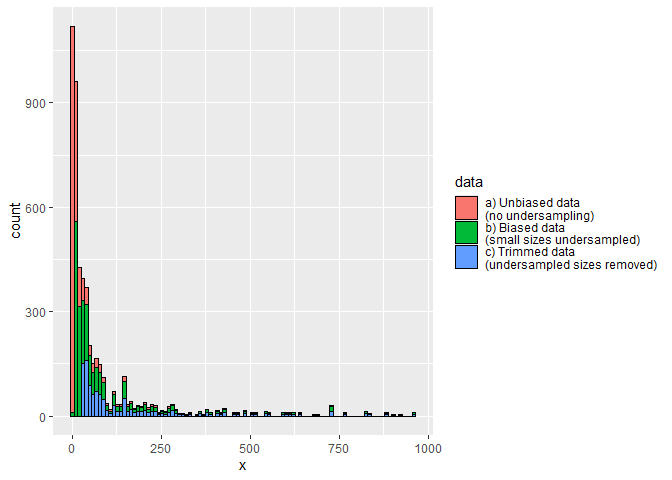
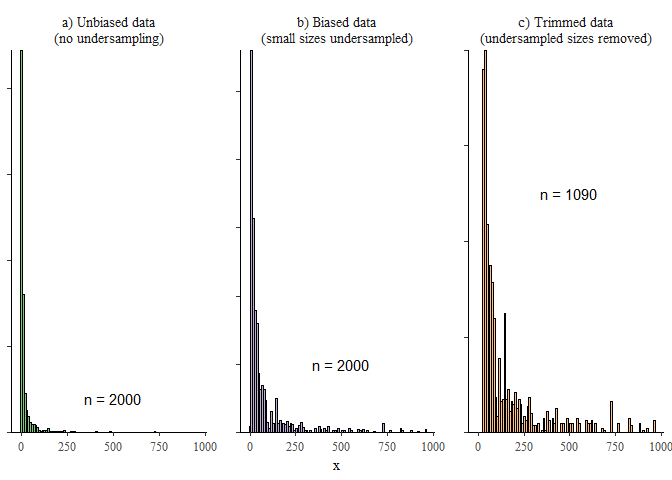
update panel for histogram

diff --git a/README.md b/README.md
@@ -328,14 +328,14 @@ sample_sizes = data_to_plot |>
 
 ggplot(data_to_plot, aes(x = x, fill = data)) + 
   geom_histogram(bins = 100, color = 'black') +
-  # facet_wrap(~data, scales = "free_y") +
-  # brms::theme_default() +
-  # theme(axis.text.y = element_blank(),
-  #       axis.title.y = element_blank()) +
-  # guides(fill = "none") +
-  # scale_fill_brewer(type = "qual") +
-  # scale_y_continuous(expand = c(0, NA)) +
-  # geom_text(data = sample_sizes, aes(x = 500, y = 100, label = n)) +
+  facet_wrap(~data, scales = "free_y") +
+  brms::theme_default() +
+  theme(axis.text.y = element_blank(),
+        axis.title.y = element_blank()) +
+  guides(fill = "none") +
+  scale_fill_brewer(type = "qual") +
+  scale_y_continuous(expand = c(0, NA)) +
+  geom_text(data = sample_sizes, aes(x = 500, y = 100, label = n)) +
   NULL
 ```
 
@@ -351,8 +351,8 @@ fit_unbiased = update(fit1, newdata = unbiased_data)
 #> 
 #> SAMPLING FOR MODEL 'anon_model' NOW (CHAIN 1).
 #> Chain 1: 
-#> Chain 1: Gradient evaluation took 0.001361 seconds
-#> Chain 1: 1000 transitions using 10 leapfrog steps per transition would take 13.61 seconds.
+#> Chain 1: Gradient evaluation took 0.001457 seconds
+#> Chain 1: 1000 transitions using 10 leapfrog steps per transition would take 14.57 seconds.
 #> Chain 1: Adjust your expectations accordingly!
 #> Chain 1: 
 #> Chain 1: 
@@ -369,16 +369,16 @@ fit_unbiased = update(fit1, newdata = unbiased_data)
 #> Chain 1: Iteration: 900 / 1000 [ 90%]  (Sampling)
 #> Chain 1: Iteration: 1000 / 1000 [100%]  (Sampling)
 #> Chain 1: 
-#> Chain 1:  Elapsed Time: 2.238 seconds (Warm-up)
-#> Chain 1:                1.852 seconds (Sampling)
-#> Chain 1:                4.09 seconds (Total)
+#> Chain 1:  Elapsed Time: 2.398 seconds (Warm-up)
+#> Chain 1:                1.871 seconds (Sampling)
+#> Chain 1:                4.269 seconds (Total)
 #> Chain 1:
 fit_biased = update(fit1, newdata = biased_data)
 #> 
 #> SAMPLING FOR MODEL 'anon_model' NOW (CHAIN 1).
 #> Chain 1: 
-#> Chain 1: Gradient evaluation took 0.001471 seconds
-#> Chain 1: 1000 transitions using 10 leapfrog steps per transition would take 14.71 seconds.
+#> Chain 1: Gradient evaluation took 0.000992 seconds
+#> Chain 1: 1000 transitions using 10 leapfrog steps per transition would take 9.92 seconds.
 #> Chain 1: Adjust your expectations accordingly!
 #> Chain 1: 
 #> Chain 1: 
@@ -395,16 +395,16 @@ fit_biased = update(fit1, newdata = biased_data)
 #> Chain 1: Iteration: 900 / 1000 [ 90%]  (Sampling)
 #> Chain 1: Iteration: 1000 / 1000 [100%]  (Sampling)
 #> Chain 1: 
-#> Chain 1:  Elapsed Time: 2.118 seconds (Warm-up)
-#> Chain 1:                1.814 seconds (Sampling)
-#> Chain 1:                3.932 seconds (Total)
+#> Chain 1:  Elapsed Time: 2.081 seconds (Warm-up)
+#> Chain 1:                1.668 seconds (Sampling)
+#> Chain 1:                3.749 seconds (Total)
 #> Chain 1:
 fit_trimmed = update(fit1, newdata = biased_data_fixed)
 #> 
 #> SAMPLING FOR MODEL 'anon_model' NOW (CHAIN 1).
 #> Chain 1: 
-#> Chain 1: Gradient evaluation took 0.000802 seconds
-#> Chain 1: 1000 transitions using 10 leapfrog steps per transition would take 8.02 seconds.
+#> Chain 1: Gradient evaluation took 0.001483 seconds
+#> Chain 1: 1000 transitions using 10 leapfrog steps per transition would take 14.83 seconds.
 #> Chain 1: Adjust your expectations accordingly!
 #> Chain 1: 
 #> Chain 1: 
@@ -421,9 +421,9 @@ fit_trimmed = update(fit1, newdata = biased_data_fixed)
 #> Chain 1: Iteration: 900 / 1000 [ 90%]  (Sampling)
 #> Chain 1: Iteration: 1000 / 1000 [100%]  (Sampling)
 #> Chain 1: 
-#> Chain 1:  Elapsed Time: 1.044 seconds (Warm-up)
-#> Chain 1:                0.998 seconds (Sampling)
-#> Chain 1:                2.042 seconds (Total)
+#> Chain 1:  Elapsed Time: 2.503 seconds (Warm-up)
+#> Chain 1:                2.022 seconds (Sampling)
+#> Chain 1:                4.525 seconds (Total)
 #> Chain 1:
 ```
 
